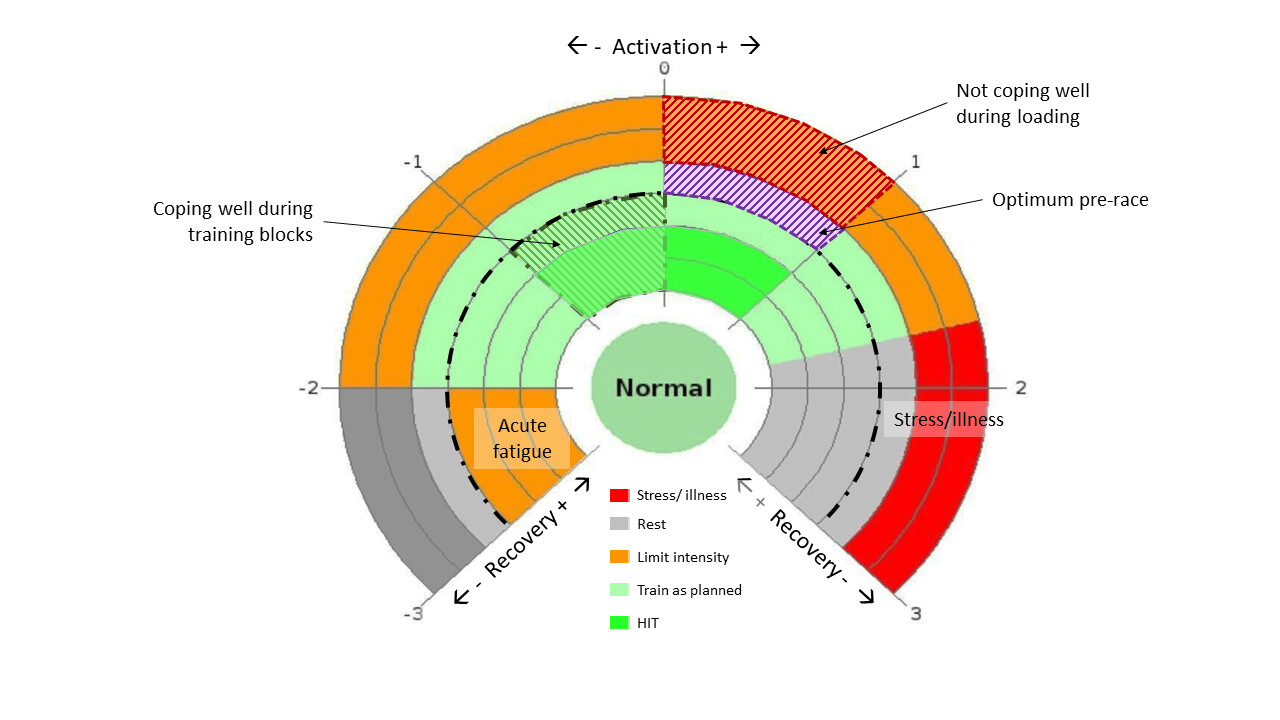
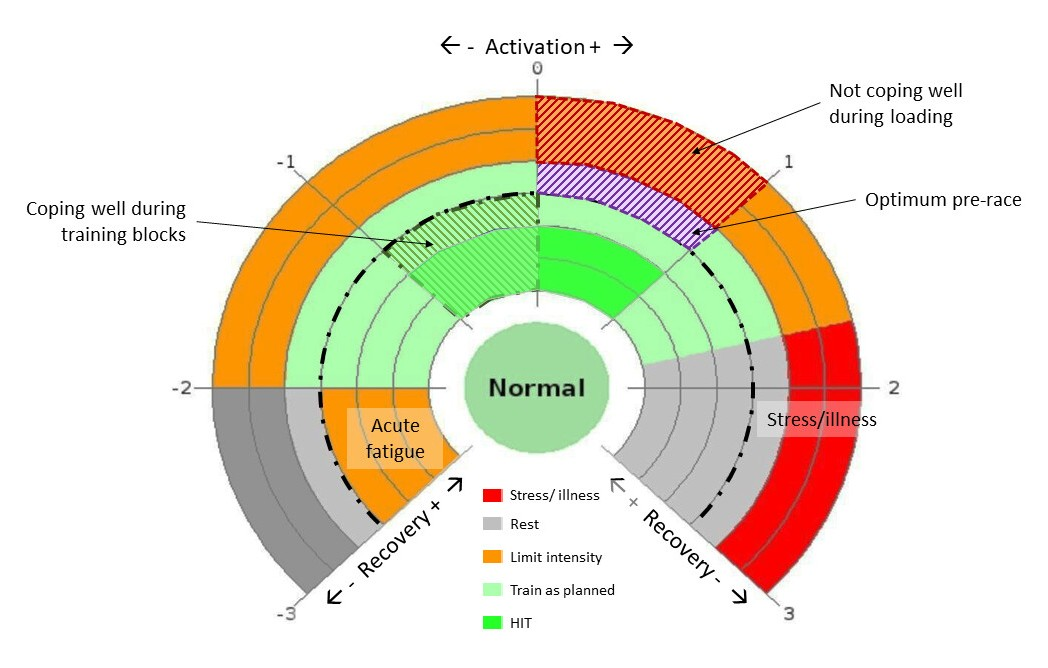
Fix ambiguous LIT/LIT! legend row, drop filler text, trim help dialog
- READINESS_LEGEND's code-3 row showed the label "LIT!" paired with the
  description that actually belongs to classify()'s other "LIT" branch
  for the same code. Since code 3 legitimately displays as either "LIT"
  or "LIT!" depending on which condition fired, the legend row now says
  "LIT / LIT!" with a description that covers both.
- Dropped the "Go on!" lead-in from the Normal-code detail text; it was
  filler ahead of "Train as planned."
- Removed the credit line from inside the gauge help dialog (the
  README's Credits section already covers attribution).
- Replaced public/readiness-chart-reference.jpg with the cropped version.

Changed region(s): [[0.0305, 0.0599, 0.9771, 0.9581], [0.7023, 0.1198, 0.916, 0.1796]]

diff --git a/src/score.ts b/src/score.ts
@@ -36,11 +36,17 @@ interface LegendEntry {
   description: string;
 }
 
-/** Meaning of each non-"no data" readiness code, worst to best, for the gauge legend. */
+/**
+ * Meaning of each non-"no data" readiness code, worst to best, for the gauge
+ * legend. Code 3 fires from two different branches of `classify()` (very low
+ * RHR with acute-fatigue signs, labeled "LIT!"; or moderate RHR with
+ * incomplete HRV recovery, labeled "LIT") that share a color, so the legend
+ * shows both label variants in one row rather than picking just one.
+ */
 export const READINESS_LEGEND: LegendEntry[] = [
   { code: 6, label: 'REST!', description: 'Illness or stress detected' },
   { code: 5, label: 'Rest', description: 'Time to recover' },
-  { code: 3, label: 'LIT!', description: 'Recovery incomplete' },
+  { code: 3, label: 'LIT / LIT!', description: 'Recovery is not complete' },
   { code: 2, label: 'LIT', description: 'Low intensity training' },
   { code: 4, label: 'Normal', description: 'Train as planned' },
   { code: 1, label: 'HIT', description: 'Ready for intensive training' },
@@ -79,7 +85,9 @@ export function classify(hrvZ: number, rhrZ: number): Classification {
     return { code: 3, label: 'LIT!', detail: ['Keep calm!', 'Acute fatigue signs'] };
   }
   if (rhrZ < 1.7 && hrvZ >= -1) {
-    return { code: 4, label: 'Normal', detail: ['Go on!', 'Train as planned.'] };
+    // Deliberately dropped the original script's "Go on!" lead-in here - it
+    // read as filler, not information.
+    return { code: 4, label: 'Normal', detail: ['Train as planned.', ''] };
   }
   if (hrvZ >= -1) {
     return { code: 2, label: 'LIT', detail: ['Low intensity training', ''] };

diff --git a/src/ui.ts b/src/ui.ts
@@ -336,11 +336,6 @@ export function renderDashboard(
         <dialog id="gauge-help-dialog" class="gauge-help-dialog">
           <button id="gauge-help-close" class="icon-btn gauge-help-close" type="button" aria-label="Close">&#10005;</button>
           <img id="gauge-help-image" class="gauge-help-image" alt="Reference readiness chart: resting heart rate (activation) around the arc, HRV (recovery) as distance from the center, with named zones for HIT, train as planned, limit intensity, rest, and stress/illness." />
-          <p class="gauge-help-caption">
-            Adapted from a chart shared on the intervals.icu forum, crediting
-            <a href="https://forum.intervals.icu/u/Inigo_Tolosa" target="_blank" rel="noopener noreferrer">@Inigo_Tolosa</a>'s
-            original readiness script.
-          </p>
         </dialog>
 
         ${renderAdviceBanner(adviceStatus)}

diff --git a/src/gauge.test.ts b/src/gauge.test.ts
@@ -5,7 +5,7 @@ import type { ReadinessResult, ZScorePoint } from './types';
 const RESULT: ReadinessResult = {
   code: 4,
   label: 'Normal',
-  detail: ['Go on!', 'Train as planned.'],
+  detail: ['Train as planned.', ''],
   color: '#b4f0b4',
   adviceCode: 3,
 };

diff --git a/src/style.css b/src/style.css
@@ -520,14 +520,3 @@ main {
   border-radius: 8px;
   background: #ffffff;
 }
-
-.gauge-help-caption {
-  font-size: 0.8rem;
-  color: var(--color-text-muted);
-  line-height: 1.4;
-  margin: 0.75rem 0 0;
-}
-
-.gauge-help-caption a {
-  color: inherit;
-}
